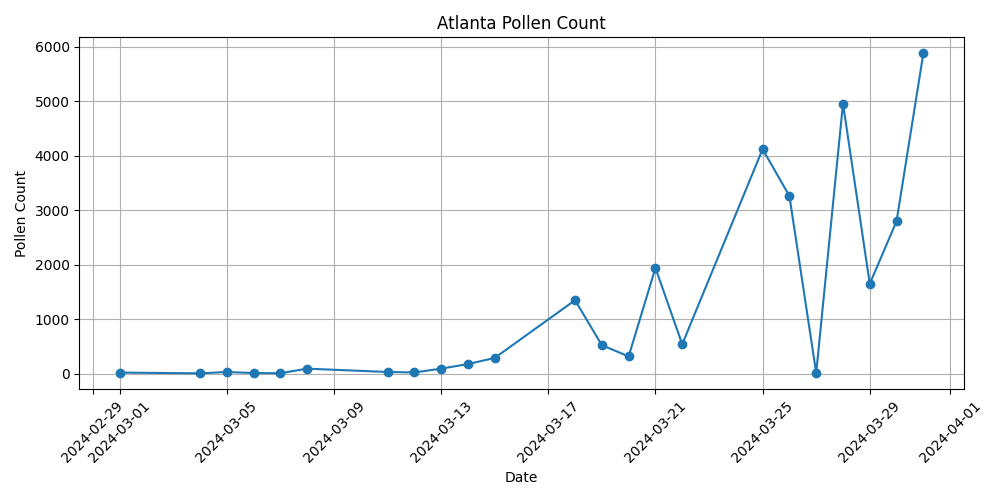
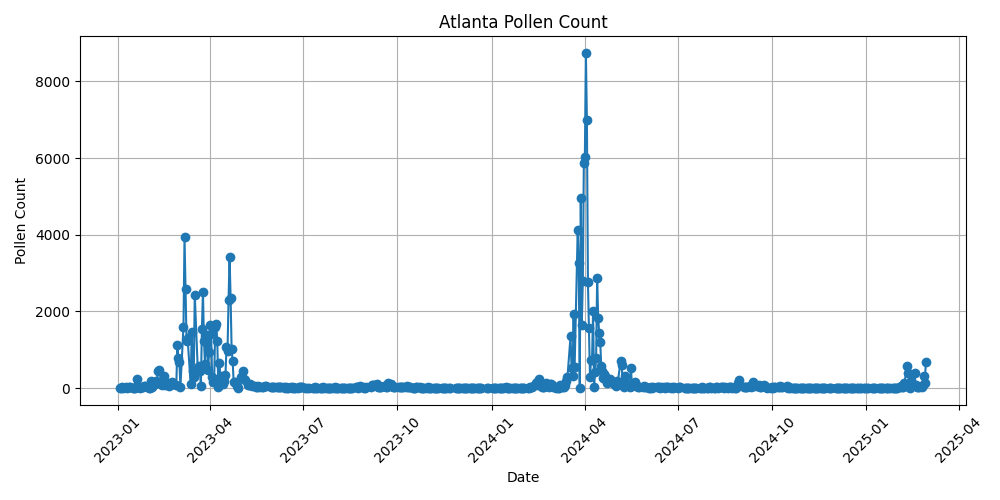
less webscraping

diff --git a/modules/pollen.py b/modules/pollen.py
@@ -1,6 +1,8 @@
+import pandas as pd
 import matplotlib.pyplot as plt
 import datetime
 import os
+import asyncio
 
 DATA_DIR = "modules/pollen_data"
 DATA_FILE = os.path.join(DATA_DIR, "pollen_counts.csv")
@@ -8,23 +10,22 @@ DATA_FILE = os.path.join(DATA_DIR, "pollen_counts.csv")
 def ensure_data_dir():
     os.makedirs(DATA_DIR, exist_ok=True)
     if not os.path.exists(DATA_FILE):
-        with open(DATA_FILE, "w") as f:
-            f.write("date,pollen_count\n")
+        pd.DataFrame(columns=["date", "pollen_count"]).to_csv(DATA_FILE, index=False)
 
 def read_pollen_data():
     ensure_data_dir()
-    data = {}
-    with open(DATA_FILE, "r") as f:
-        next(f)  # Skip header
-        for line in f:
-            date, count = line.strip().split(",")
-            data[date] = int(count)
-    return data
+    try:
+        df = pd.read_csv(DATA_FILE, dtype={"date": str, "pollen_count": "Int64"})
+        return df.set_index("date")["pollen_count"].to_dict()
+    except FileNotFoundError:
+        return {}
 
 def write_pollen_data(date, count):
     ensure_data_dir()
-    with open(DATA_FILE, "a") as f:
-        f.write(f"{date},{count}\n")
+    df = pd.read_csv(DATA_FILE, dtype={"date": str, "pollen_count": "Int64"})
+    new_entry = pd.DataFrame([[date, count]], columns=["date", "pollen_count"])
+    df = pd.concat([df, new_entry], ignore_index=True)
+    df.to_csv(DATA_FILE, index=False)
 
 def get_atl_pollen_count_by_date(date: str):
     data = read_pollen_data()
@@ -42,18 +43,20 @@ def get_atl_pollen_count_by_date(date: str):
         except ValueError:
             continue
     
-    return None if mylist == [''] else 'HTML Failure'
+    write_pollen_data(date, None)
+    return None
 
-def plot_pollen_counts(start_date: str, end_date: str):
+async def plot_pollen_counts(start_date: str, end_date: str):
     start_date = datetime.datetime.strptime(start_date, "%Y-%m-%d").date()
     end_date = datetime.datetime.strptime(end_date, "%Y-%m-%d").date()
-    dates = []
-    counts = []
+    
+    data = read_pollen_data()
+    dates, counts = [], []
     
     for n in range((end_date - start_date).days + 1):
         date_str = (start_date + datetime.timedelta(n)).strftime("%Y/%m/%d")
-        count = get_atl_pollen_count_by_date(date_str)
-        if isinstance(count, int):
+        count = data.get(date_str, get_atl_pollen_count_by_date(date_str))
+        if pd.notna(count):
             dates.append(start_date + datetime.timedelta(n))
             counts.append(count)
     
@@ -72,6 +75,6 @@ def plot_pollen_counts(start_date: str, end_date: str):
 
 if __name__ == '__main__':
     import webscraper as ws
-    plot_pollen_counts("2024-01-01", "2024-12-31")
+    asyncio.run(plot_pollen_counts("2024-01-01", "2024-12-31"))
 else:
     from modules import webscraper as ws

diff --git a/modules/message_handler.py b/modules/message_handler.py
@@ -96,7 +96,7 @@ async def handle_message(bot, message, log_channel_id):
                     await message.channel.send("❌ **Start date must be before end date.**")
                     return
                 
-                pollen.plot_pollen_counts(start_date, end_date)
+                await pollen.plot_pollen_counts(start_date, end_date)
                 await message.channel.send(file=discord.File("plots/plot.png"))
             except ValueError:
                 await message.channel.send("❌ **Invalid date format. Use YYYY-MM-DD YYYY-MM-DD.**")

diff --git a/main.py b/main.py
@@ -83,7 +83,7 @@ intents.message_content = True
 intents.dm_messages = True
 intents.guilds = True
 
-bot = commands.Bot(command_prefix="!", intents=intents)
+bot = commands.Bot(command_prefix="!", intents=intents, heartbeat_timeout=6000)
 
 @bot.event
 async def on_ready():
